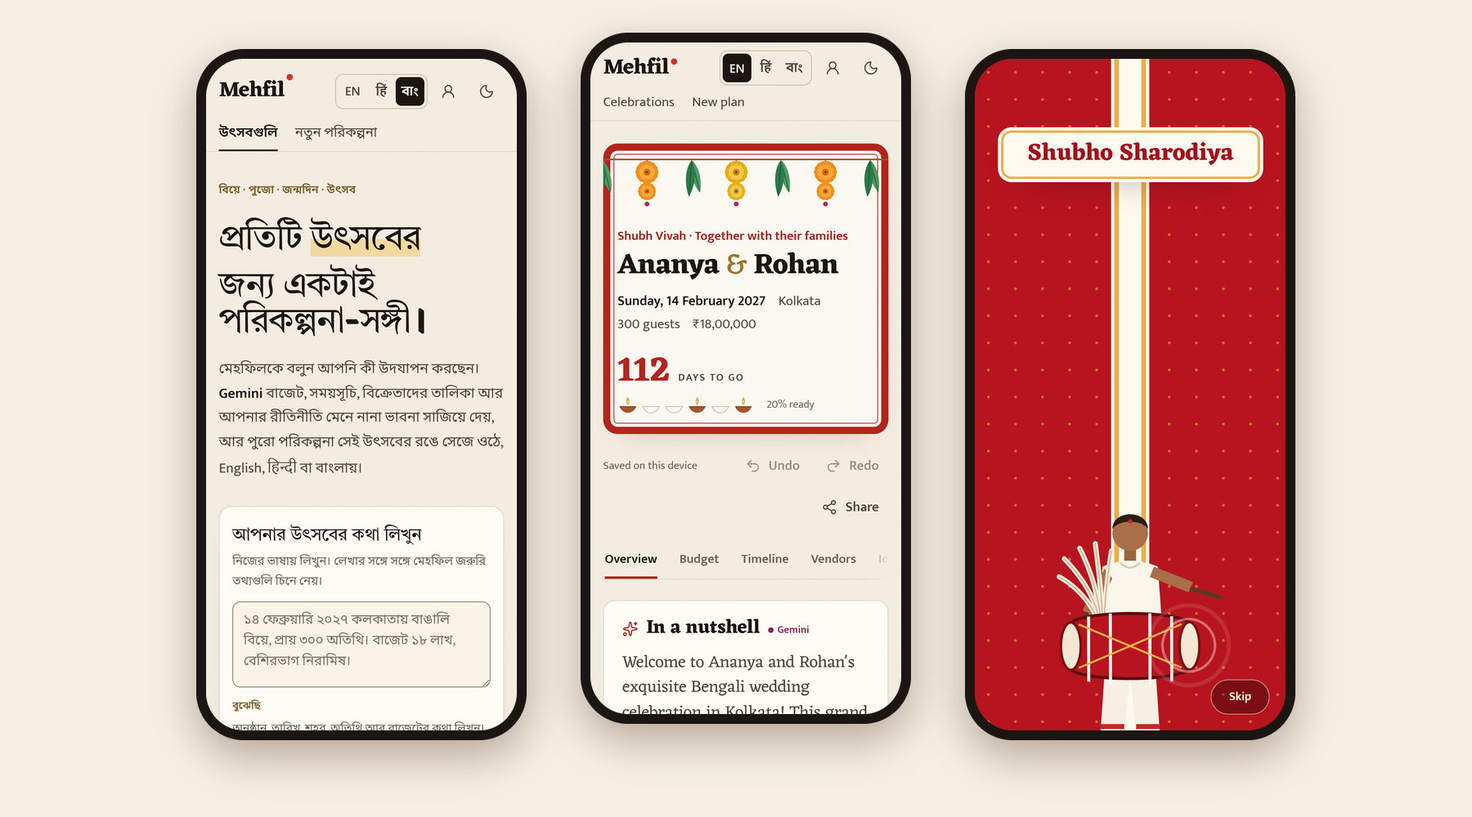
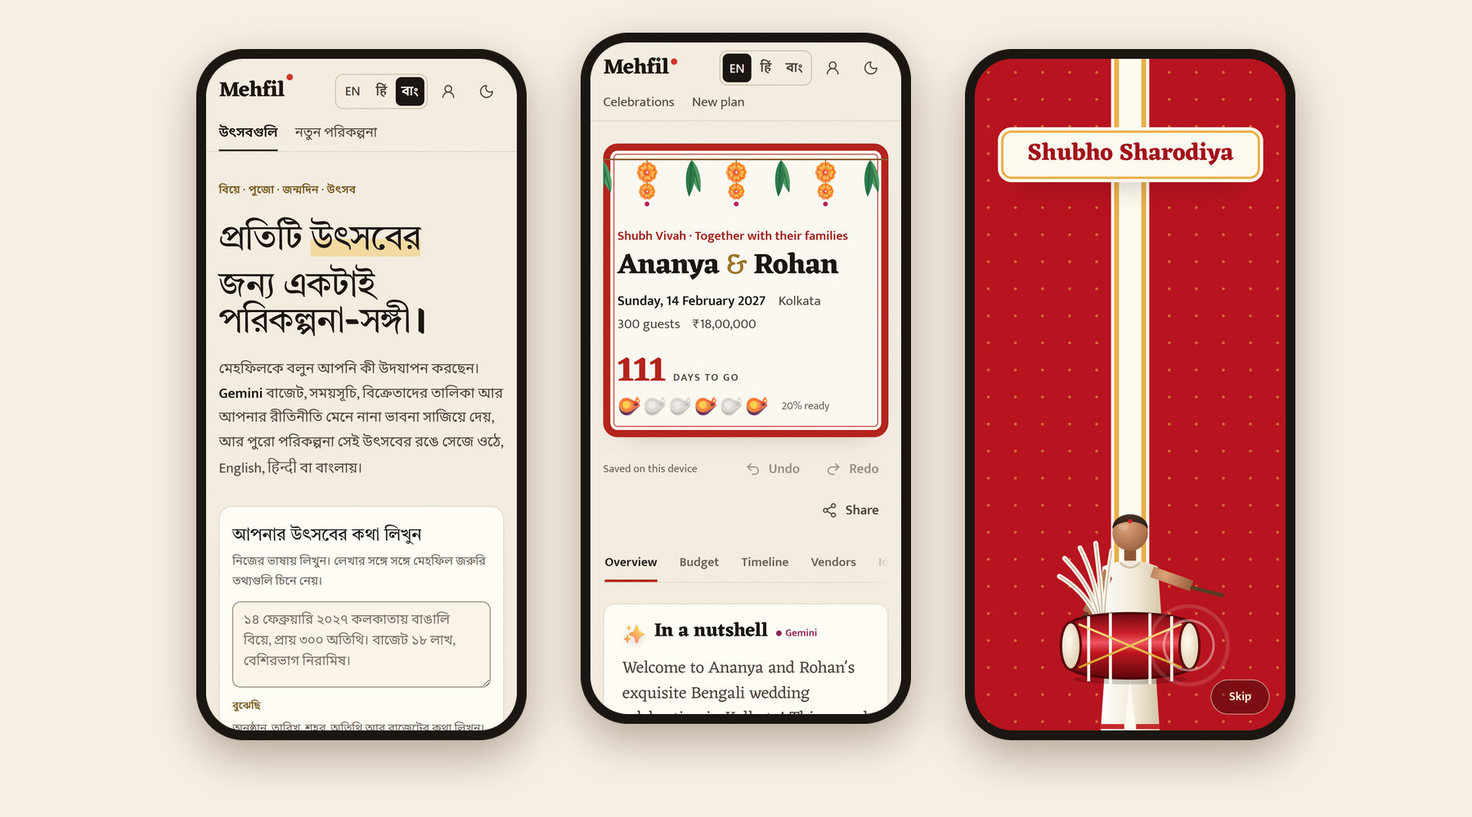
docs: 3D artwork in the screenshots, design guide and credits
The README pictures now show the 3D scene, header clusters and moment props.
The design guide says where the artwork comes from, how it loads and that it
is always decorative; the README credits Fluent Emoji (MIT). Test counts and
coverage match the latest run.

diff --git a/README.md b/README.md
@@ -1,6 +1,6 @@
 <div align="center">
 
-<img src="docs/images/banner.jpg" width="100%" alt="Mehfil: one planner for every celebration. The headline beside three plans, each in its occasion's colours: a wedding under a marigold toran in a red border, a Durga Puja with the dhak, and Diwali under lights and kandils on a night sky">
+<img src="docs/images/banner.jpg" width="100%" alt="Mehfil: one planner for every celebration. The headline beside a 3D puja thali with a lit diya, with a lotus, a ring, a birthday cake, marigolds, a balloon, an elephant and a gift floating around it">
 
 # Mehfil
 
@@ -109,14 +109,14 @@ rules. Every Gemini answer passes through deterministic rules that react to the 
 ## Screenshots
 
 Every occasion gets its own look. The home page stays calm and neutral; a plan takes on its
-occasion's colours and decorations, recognised from what you wrote in any of the three
-languages, and the first time it opens, the occasion plays for a few seconds.
+occasion's colours, decorations and 3D objects, recognised from what you wrote in any of the
+three languages, and the first time it opens, the occasion plays for a few seconds.
 
 <p align="center">
-  <img src="docs/images/moods.jpg" width="100%" alt="Six plan headers: a wedding in a red border under a toran of marigolds and mango leaves, a Durga Puja in a red and gold sari border with the dhak and falling shiuli, a Ganesh Chaturthi with a turning sunburst and modaks, a birthday under bunting with balloons, a Diwali on a night sky with string lights and kandils, and a neighbourhood festival under a toran">
+  <img src="docs/images/moods.jpg" width="100%" alt="Six plan headers: a wedding in a red border under a toran of 3D marigolds, with a ring and a bouquet; a Durga Puja in a red and gold sari border with a lotus and a hibiscus; a Ganesh Chaturthi with a turning sunburst, an elephant and a coconut; a birthday under bunting with balloons and a cake; a Diwali on a night sky with glowing hanging lanterns and a lit diya; and a neighbourhood festival under a toran with a kite">
 </p>
 <p align="center">
-  <img src="docs/images/moments.jpg" width="100%" alt="Six celebration moments: the couple circling the fire for the pheras under 'Shubh Vivah', a dhaki drumming before red curtains under 'Shubho Sharodiya', rockets bursting over 'Shubh Deepavali' above a row of diyas, a sunburst and modaks under 'Ganpati Bappa Morya!', balloons and confetti for 'Happy birthday!', and a ring of marigolds for 'Let the festival begin!'">
+  <img src="docs/images/moments.jpg" width="100%" alt="Six celebration moments: the couple circling the havan fire for the pheras under 'Shubh Vivah', a dhaki drumming before red curtains under 'Shubho Sharodiya', rockets bursting over 'Shubh Deepavali' above a row of glowing diyas, an elephant under a sunburst and falling marigolds for 'Ganpati Bappa Morya!', balloons and confetti for 'Happy birthday!', and a ring of marigolds around a diya for 'Let the festival begin!'">
 </p>
 <p align="center"><sub>Celebration moments: the pheras round the fire, a dhaki drumming before the curtains part, rockets over Diwali, Ganpati, a birthday and other festivals. Each lasts a few seconds, ends on any key or a tap, and never plays for people who ask for reduced motion.</sub></p>
 
@@ -127,12 +127,12 @@ grandparents need wheelchair access."_
 <table>
   <tr>
     <td width="50%" valign="top">
-      <img src="docs/images/wedding.jpg" alt="The wedding plan's header: a red border inside ivory paper under a toran of marigolds and mango leaves, 'Shubh Vivah · Together with their families', Ananya and Rohan, Sunday 14 February 2027 in Kolkata for 300 guests and ₹18,00,000, 112 days to go above six diyas, two of them lit, and 'Celebrate again'; below, the section tabs and Gemini's summary of the plan">
+      <img src="docs/images/wedding.jpg" alt="The wedding plan's header: a red border inside ivory paper under a toran of 3D marigolds and mango leaves, 'Shubh Vivah · Together with their families', Ananya and Rohan, Sunday 14 February 2027 in Kolkata for 300 guests and ₹18,00,000, a 3D ring and bouquet, the days to go above six diyas, two of them lit, and 'Celebrate again'; below, the section tabs, Gemini's summary and the Copilot">
       <p><b>Every plan takes on its occasion.</b> The countdown, the key facts, and a diya for each part of the plan that has begun.</p>
     </td>
     <td width="50%" valign="top">
-      <img src="docs/images/copilot.jpg" alt="The Copilot beside Today's focus: the request for 50 more guests and a mehendi night, the answer 'I suggest 3 changes', and ticked proposals for guests from 300 to 350, a new task to organise the mehendi ceremony on 15 December and a new idea for a mehendi night, with Apply 3 changes and Dismiss buttons">
-      <p><b>The Copilot proposes, you decide.</b> "We now expect 50 more guests, and we want a mehendi night too" becomes three changes to review, apply or dismiss.</p>
+      <img src="docs/images/copilot.jpg" alt="The Copilot beside Today's focus: the request for 50 more guests and a mehendi night, the answer 'I suggest 2 changes', and ticked proposals for guests from 300 to 350 and a new task to plan and organise the mehendi night on 5 December, with Apply 2 changes and Dismiss buttons">
+      <p><b>The Copilot proposes, you decide.</b> "We now expect 50 more guests, and we want a mehendi night too" becomes two changes to review, apply or dismiss.</p>
     </td>
   </tr>
   <tr>
@@ -157,18 +157,18 @@ grandparents need wheelchair access."_
   </tr>
   <tr>
     <td width="50%" valign="top">
-      <img src="docs/images/home-hindi.jpg" alt="The home page in Hindi: the headline 'हर उत्सव के लिए एक योजनाकार।' with 'उत्सव' marked in marigold, a box to describe the celebration, and a plate that turns through the occasions">
+      <img src="docs/images/home-hindi.jpg" alt="The home page in Hindi: the headline 'हर उत्सव के लिए एक योजनाकार।' with 'उत्सव' marked in marigold, a box to describe the celebration, and the 3D thali scene">
       <p><b>English, Hindi and Bengali.</b> The whole interface switches language, and Gemini can write the plan in 16 languages.</p>
     </td>
     <td width="50%" valign="top">
-      <img src="docs/images/night-theme.jpg" alt="The same wedding plan in the night theme: warm ink black around the red border, the marigold toran and the countdown">
+      <img src="docs/images/night-theme.jpg" alt="The same wedding plan in the night theme: warm ink black around the red border, the marigold toran, the ring and bouquet and the countdown">
       <p><b>Day and night themes.</b> The day theme follows the device's setting until you choose. Every colour pair, in every occasion's colours, is checked for contrast in the tests.</p>
     </td>
   </tr>
 </table>
 
 <p align="center">
-  <img src="docs/images/phones.jpg" width="100%" alt="Three phones: the home page in Bengali, the wedding plan with its 112-day countdown, and the Durga Puja moment with a dhaki drumming before red curtains">
+  <img src="docs/images/phones.jpg" width="100%" alt="Three phones: the home page in Bengali, the wedding plan with its countdown and 3D diyas, and the Durga Puja moment with a dhaki drumming before red curtains">
 </p>
 <p align="center"><sub>On a phone: the home page in Bengali, a wedding plan, and the Durga Puja moment.</sub></p>
 
@@ -182,7 +182,7 @@ grandparents need wheelchair access."_
 | **Timelines**                                | Tasks scheduled back from the date and brought forward when time is short, grouped by phase, with priorities, filters and a countdown. A calendar file with reminders, "Add to Google Calendar" on every task, and a printable day-of run sheet for multi-day celebrations.                                         |
 | **Vendor checklists**                        | What to book and by when, a status pipeline from "not started" to "paid", questions to ask and red flags, quote comparison (the chosen quote counts in the budget), and a Google Maps search for each category in your city.                                                                                        |
 | **Personalised ideas**                       | Themes with colour palettes, food, decor, entertainment, activities, personal touches, favours and greener choices, shaped by your traditions, diets and budget. Keep the ones you like; ask for different ones in your own words.                                                                                  |
-| **Made for the occasion**                    | The plan takes on its occasion's colours and decorations (wedding, Durga Puja, Ganpati, birthday, Diwali or another festival), and the first time it opens it plays a few seconds of that celebration.                                                                                                              |
+| **Made for the occasion**                    | The plan takes on its occasion's colours, decorations and 3D objects (wedding, Durga Puja, Ganpati, birthday, Diwali or another festival), and the first time it opens it plays a few seconds of that celebration.                                                                                                  |
 | **Beyond the brief**                         | A guest list with RSVPs and diets that feeds catering numbers (CSV import and export), an invitation writer for WhatsApp, email, cards and social posts, readiness at a glance, sync across devices, and read-only share links.                                                                                     |
 
 ## How Gemini is used
@@ -324,7 +324,7 @@ The full picture, including the data model and the request pipeline, is in
 
 | Check                                                                                             | Result                                                                                        |
 | ------------------------------------------------------------------------------------------------- | --------------------------------------------------------------------------------------------- |
-| Unit, integration and component tests (Vitest, Testing Library, jest-axe, fast-check)             | **792 passing**; 96.8 % of lines and 87.9 % of branches covered, with per-layer gates in CI   |
+| Unit, integration and component tests (Vitest, Testing Library, jest-axe, fast-check)             | **800 passing**; 96.7 % of lines and 87.3 % of branches covered, with per-layer gates in CI   |
 | Firestore Security Rules and the Firebase adapter (emulator)                                      | **13 passing**                                                                                |
 | Browser journeys (Playwright on desktop and a phone, axe on every page, reflow at 390 and 320 px) | **44 passing**                                                                                |
 | Gemini evaluation (six sample celebrations, real API)                                             | **6 of 6** pass every check                                                                   |
@@ -344,7 +344,7 @@ dependency audit. Details in [docs/TESTING.md](docs/TESTING.md).
 | **Code quality**      | Strict TypeScript and strict type-checked lint rules; one shared schema contract for browser, server and Gemini; one pure function for every edit, so undo is free; a dependency-injected server; typed translations, where a missing string fails the build; documented decisions. | `src/shared/`, `eslint.config.js`, [ADRs](docs/adr/)                                     |
 | **Security**          | The key stays on the server; a strict CSP with no inline code or `eval`; rate limits and Firebase token checks on AI calls; prompt-injection containment and output cleaning; tested Firestore rules; a CSV-injection guard; a secret scan in CI.                                   | [SECURITY.md](SECURITY.md), `firestore.rules`, `src/server/security/`                    |
 | **Efficiency**        | AI suggests and code computes; sections stream in parallel; a response cache and per-model request budget for the free tier; a prerendered home page; the React Compiler memoises components; routes, languages, Firebase and dialogs load on demand; Brotli; fonts per script.     | [ARCHITECTURE.md](docs/ARCHITECTURE.md), [ADR 5](docs/adr/0005-prerender-and-hydrate.md) |
-| **Testing**           | 792 unit, integration and component tests (96.8 % of lines), 13 emulator tests for the Firestore rules and Firebase adapter, 44 browser journeys on desktop and phone, and an evaluation against real Gemini.                                                                       | [TESTING.md](docs/TESTING.md)                                                            |
+| **Testing**           | 800 unit, integration and component tests (96.7 % of lines), 13 emulator tests for the Firestore rules and Firebase adapter, 44 browser journeys on desktop and phone, and an evaluation against real Gemini.                                                                       | [TESTING.md](docs/TESTING.md)                                                            |
 | **Accessibility**     | WCAG 2.2 AA: landmarks, focus management, labelled forms with an error summary, native dialogs, live announcements, tested contrast in both themes, reflow down to 320 px, reduced motion; axe in component and browser tests, and a keyboard-only journey.                         | [ACCESSIBILITY.md](docs/ACCESSIBILITY.md)                                                |
 | **Google services**   | Gemini, Firebase Authentication, Cloud Firestore, Google Calendar, Google Maps and Google Fonts.                                                                                                                                                                                    | [Google services](#google-services)                                                      |
 
@@ -469,7 +469,10 @@ Details in [docs/ACCESSIBILITY.md](docs/ACCESSIBILITY.md).
 ## Acknowledgements
 
 Built for **PromptWars Virtual 2026** by Hack2skill and Google for Developers. Fonts come from
-Google Fonts through Fontsource (SIL Open Font License) and icons from Lucide (ISC License).
+Google Fonts through Fontsource (SIL Open Font License), interface icons from Lucide (ISC
+License) and the 3D artwork from Microsoft's
+[Fluent Emoji](https://github.com/microsoft/fluentui-emoji) (MIT License, kept with the files in
+`src/client/art`).
 
 ## License
 

diff --git a/docs/DESIGN.md b/docs/DESIGN.md
@@ -10,15 +10,15 @@ or a Diwali evening each has its own colours, decorations and sounds.
 from its name, kind of celebration and traditions, in English, Hindi or Bengali. The plan page
 puts the mood on `<html data-mood>`, so buttons, tabs, links and the focus ring all follow it.
 
-| Mood            | Recognised from                                 | Accent (day) | The plan's header                                                  | Celebration moment                                                 |
-| --------------- | ----------------------------------------------- | ------------ | ------------------------------------------------------------------ | ------------------------------------------------------------------ |
-| Neutral         | Anything else; the home page                    | Ink black    | A fine gold rule inside the paper, alpana in the corners           | None                                                               |
-| Wedding         | The wedding type                                | Sindoor red  | A red border inside the paper (a lal paar) under a marigold toran  | The couple circles the havan fire for the pheras                   |
-| Durga Puja      | durga, navratri, pujo, दुर्गा, দুর্গা, শারদ …   | Durga red    | Bands of a garad sari with a gold thread, the dhak, falling shiuli | A dhaki drums, then curtains in a garad sari part to show the plan |
-| Ganpati         | ganesh, ganpati, chaturthi, गणेश, গণেশ …        | Saffron      | A slowly turning sunburst, a stack of modaks, a toran              | The sunburst, modaks and a shower of marigolds                     |
-| Birthday        | The birthday type                               | Rani pink    | Bunting and balloons                                               | Balloons rise and two cannons fire confetti                        |
-| Diwali          | diwali, deepavali, kali puja, दिवाली, দীপাবলি … | Brass        | A night sky in both themes, string lights and paper kandils        | Rockets burst over a row of diyas lit from the middle outwards     |
-| Other festivals | Community events                                | Marigold     | A marigold toran                                                   | A ring of marigolds around a diya                                  |
+| Mood            | Recognised from                                 | Accent (day) | The plan's header                                                   | Celebration moment                                                 |
+| --------------- | ----------------------------------------------- | ------------ | ------------------------------------------------------------------- | ------------------------------------------------------------------ |
+| Neutral         | Anything else; the home page                    | Ink black    | A fine gold rule inside the paper, alpana corners, a gift           | None                                                               |
+| Wedding         | The wedding type                                | Sindoor red  | A red border (a lal paar) under a marigold toran, a ring, flowers   | The couple circles the havan fire for the pheras                   |
+| Durga Puja      | durga, navratri, pujo, दुर्गा, দুর্গা, শারদ …   | Durga red    | Bands of a garad sari, falling shiuli, a lotus and a hibiscus       | A dhaki drums, then curtains in a garad sari part to show the plan |
+| Ganpati         | ganesh, ganpati, chaturthi, गणेश, গণেশ …        | Saffron      | A slowly turning sunburst, a toran, an elephant and a coconut       | An elephant under the sunburst and a shower of marigolds           |
+| Birthday        | The birthday type                               | Rani pink    | Bunting, balloons and a cake                                        | Balloons rise and two cannons fire confetti                        |
+| Diwali          | diwali, deepavali, kali puja, दिवाली, দীপাবলি … | Brass        | A night sky in both themes, string lights, hanging lanterns, a diya | Rockets burst over a row of diyas lit from the middle outwards     |
+| Other festivals | Community events                                | Marigold     | A marigold toran, a kite and a lantern                              | A ring of marigolds around a diya                                  |
 
 ## Themes
 
@@ -51,9 +51,23 @@ four small font files.
 
 ## Motifs
 
-Everything is drawn in code (SVG and CSS), so there are no images to download. Repeated motifs
-(marigolds, mango leaves, shiuli, the diya, kandils, modaks and balloons) are SVG symbols defined
-once (`src/client/motifs/svg.tsx`) and placed with `<use>`. Colour comes from `currentColor` or
+**Objects are 3D pictures.** Diyas, marigolds, the lotus, Ganpati's elephant, the ring, the cake,
+balloons, lanterns and the rest come from Microsoft's
+[Fluent Emoji](https://github.com/microsoft/fluentui-emoji) 3D set (MIT License, kept in
+`src/client/art/LICENSE`). Each is a WebP at 256 pixels with a 96-pixel copy for small sizes:
+50 files, 200 KB in all, and a page fetches only the ones it shows. The `Art` component draws
+them, always with empty alt text, because the words beside a picture carry its meaning.
+
+- **The home page's scene** (`CelebrationPlate`) is a puja thali with a lit diya and the things
+  each celebration brings floating around it. It is one image with a spoken description; with a
+  mouse, its objects shift with depth as the pointer moves.
+- **Each plan's header** has a small cluster of objects for its occasion (`MoodArt`).
+- **Pictures on the first screen wait for the page to load** (`afterLoad`): they hold their space,
+  so nothing jumps, and fade in once the text and fonts are in. The rest load lazily.
+
+**Patterns are drawn in code** (SVG and CSS): the toran, bunting, string lights, the sunburst,
+falling shiuli, alpana corners and the wedding couple and dhaki of the moments. A toran's
+marigolds are the same 3D picture placed with `<image>`. Colour comes from `currentColor` or
 classes, never inline styles, because the Content-Security-Policy forbids them.
 
 A row of diyas measures each plan: one per part (budget, timeline, vendors, guests, ideas, the
@@ -65,16 +79,18 @@ day itself), lit once that part has begun, with the whole picture as its accessi
   loaded, so the first paint is not competing with them, and stop under
   `prefers-reduced-motion`. Pivots use `transform-box: fill-box`, so no element needs an inline
   style.
-- **The home page's plate** turns through the occasions in CSS alone.
+- **The home page's scene** floats, each object at its own pace, and follows the pointer with
+  depth.
 - **Cards rise into view** as you scroll, driven by CSS scroll timelines: no script, nothing can
   flash, and anything on screen at load is already in place.
 - **Pages cross-fade** with the View Transitions API (`src/client/app/view-transition.ts`).
 - **The countdown counts up** and the diyas light with a small flare.
 - **Celebration moments** (`src/client/features/moments`) play the first time a plan opens on a
-  device, for three to four seconds. They are loaded only when they play (about 8 KB), end on
-  Skip, a click or any key, return focus to the plan's heading, never play for people who ask for
-  reduced motion, and can be replayed with "Celebrate again". The Diwali rockets and birthday
-  confetti are a small canvas particle system with seeded, tested physics (`show.ts`).
+  device, for three to four seconds. They are loaded only when they play (about 10 KB
+  compressed, plus their pictures), end on Skip, a click or any key, return focus to the plan's
+  heading, never play for people who ask for reduced motion, and can be replayed with "Celebrate
+  again". The Diwali rockets and birthday confetti are a small canvas particle system with
+  seeded, tested physics (`show.ts`).
 
 Nothing that conveys information moves; every animation is decoration on top of content that
 reads the same without it.

diff --git a/docs/TESTING.md b/docs/TESTING.md
@@ -5,12 +5,12 @@ test is fast, free and repeatable.
 
 | Layer                           | Command                                            | Count                   | What it covers                                                                                         |
 | ------------------------------- | -------------------------------------------------- | ----------------------- | ------------------------------------------------------------------------------------------------------ |
-| Unit, integration and component | `npm test` (`npm run test:coverage` for the gates) | 792 tests in 63 files   | Planning engine, AI gateway and API, client state, sync, every page and section with axe               |
+| Unit, integration and component | `npm test` (`npm run test:coverage` for the gates) | 800 tests in 65 files   | Planning engine, AI gateway and API, client state, sync, every page and section with axe               |
 | Firebase emulators              | `npm run test:rules` (needs Java 21)               | 13 tests                | Firestore Security Rules and the Firebase adapter against the Auth and Firestore emulators             |
 | Browser journeys                | `npm run e2e` (after `npm run build`)              | 22 journeys × 2 devices | Real Chromium on desktop and a Pixel 7, with axe on every page and reflow checks at 390 and 320 px too |
 | Lighthouse                      | `npx @lhci/cli@0.15.1 autorun` (CI)                | 2 pages × 3 runs        | Accessibility 100 and best practices ≥ 95 enforced; performance and SEO tracked                        |
 
-Coverage on the last run: **96.8 % of lines, 87.9 % of branches, 95.3 % of functions**. CI fails
+Coverage on the last run: **96.7 % of lines, 87.3 % of branches, 95.2 % of functions**. CI fails
 if the shared engine or the server drop below 90 % of lines, or the client below 80 %.
 
 ## What each layer proves

diff --git a/docs/ACCESSIBILITY.md b/docs/ACCESSIBILITY.md
@@ -30,8 +30,9 @@ Bengali. Automated checks run at three levels, and the patterns below are used t
   returns to the button that opened them.
 - Status is never shown by colour alone: pills, checkboxes and badges always carry text or icons.
 - Charts and decorative drawings are either hidden from assistive technology or given a text
-  equivalent (the row of diyas reads out each part's progress; the home page's turning plate is
-  one labelled picture).
+  equivalent (the row of diyas reads out each part's progress; the home page's 3D scene is one
+  labelled picture). Every 3D picture has empty alt text, because the words beside it carry its
+  meaning.
 - Celebration moments are decorative and hidden from assistive technology. They never take
   focus; Skip, a click or any key ends one at once, so keyboard focus never lands behind it, and
   if focus was on its Skip button it returns to the plan's heading.

diff --git a/AGENTS.md b/AGENTS.md
@@ -46,6 +46,9 @@ what every automated test uses.
     `src/shared/domain/mood.ts`; give a new mood its tokens in `tokens.css` (the contrast test
     covers them), its header art in `MoodArt.tsx` and, if it has one, a moment in
     `features/moments`.
+11. **Pictures are decoration.** 3D artwork lives in `src/client/art` as a 256-pixel WebP and a
+    `-sm` copy; add its name to `ART_NAMES` and draw it with `<Art>`, which gives it empty alt
+    text. Pictures on the first screen take `afterLoad`, so text and fonts arrive first.
 
 ## Writing style
 
